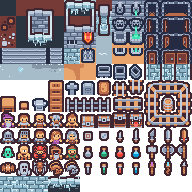
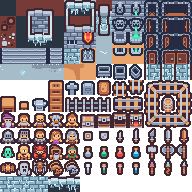
feat: special-biome feedback pass - cold torches, de-tiled floors, vault treasure, bloodier flesh
Owner feedback on PR #40, incorporated before merge:

Frost: torches burn COLD - the frost sheet now recolors the torch
sprite's flame (extra_frames support in the build pipeline: per-frame
palette overrides on top of the kit lut) and the client picks a
blue-white light pool per biome (TORCH_TINTS) + renders the torch from
the biome sheet. Sparkle density eased.

Floor tiling (frost/gold feedback): biome floor tiles carry baked
features at fixed in-tile positions, which lined up into a repeat grid.
The client now rotates/flips plain + paved biome floor tiles per
position (same deterministic orientDecor the speckle already used) -
8 orientations per tile, grid broken, zero art changes. Stone floors
untouched. Coin/sparkle densities also eased.

Goldvault treasure: a new pure-score 'treasure' loot category (no buff,
always consumed - applyLootEffect short-circuit + tests) scattered
across goldvault floors on entry (GOLDVAULT_TREASURE_COUNT=12;
rollTreasure: coins uncommon-value, fat sacks rare-value at 20%).
Rides the normal loot machinery: rarity scores at the live multiplier,
haul tallies into M13, rarity floor-glow for free. Client renders Tiny
Town coin #93 / sack #106 (ATTRIBUTION updated; also back-filled the
never-logged bomb #105 credit). Dormant until special-floor triggers
exist; live under DUNGEON_BIOME.

Flesh, bloodier: blotch pass eats the brick pattern (tone blobs
random-walked over the wall ramp only - outlines preserved), blood now
[…]

diff --git a/client/src/scenes/GameScene.ts b/client/src/scenes/GameScene.ts
@@ -13,6 +13,9 @@ const TILES_KEY = "tiles";
 // of a smashed key crate. Same 16x16 grid but 12 columns; key is frame #117.
 const TOWN_KEY = "town";
 const FRAME_KEY = 117;
+// Goldvault treasure pickups (special floors) — Tiny Town coin + coin sack.
+const FRAME_COIN = 93;
+const FRAME_SACK = 106;
 const TILE_SRC = 16; // source tile size in px (we scale up to the world TILE)
 const FRAME_FLOOR = 48; // plain stone floor (the common case)
 const FRAME_FLOOR_SPECKLE = 49; // subtle pebble/sand debris — same tan base as #48
@@ -122,6 +125,12 @@ const TORCH_SPRITE_DEPTH = 2; // the torch sits above the wall it's mounted on
 // tint subtly toward their player color (you read teammates by their glow); a downed
 // hero's distress beacon tints danger-red.
 const TORCH_TINT_COLOR = 0xffb060; // warm amber
+// Some biomes burn differently: frost torches throw a cold blue-white pool
+// (the frost sheet also recolors the torch sprite's flame — see extra_frames
+// in assets-src/biomes/build_biomes.py). Default is the warm amber above.
+const TORCH_TINTS: Record<string, number> = {
+  frost: 0xbfe4ff,
+};
 const TORCH_TINT_MAX = 0.55;
 // A hero's own light stays neutral (your view is true-color); teammates' light picks
 // up a *subtle* hint of their player color so you can tell whose bubble is whose.
@@ -435,6 +444,8 @@ export class GameScene extends Phaser.Scene {
   // Texture key map geometry draws from — the current floor's biome sheet
   // (M15); TILES_KEY (stone) until a "map" message says otherwise.
   private mapTilesKey: string = TILES_KEY;
+  // Flesh floors only: the slow-pulsing red wash that makes the floor breathe.
+  private fleshPulse?: Phaser.GameObjects.Rectangle;
   // The codex fold-in for the run that just ended (M14): prev snapshot (drives
   // the NEW badges) + which personal bests broke. Set once per run end — it
   // doubles as the "already recorded" guard — and cleared with runTallies.
@@ -914,6 +925,8 @@ export class GameScene extends Phaser.Scene {
    *  attack, the shield for defense, else the potion. */
   private lootSprite(l: LootView): { texture: string; frame: number } {
     if (l.category === "bomb") return { texture: TOWN_KEY, frame: FRAME_BOMB };
+    if (l.category === "treasure")
+      return { texture: TOWN_KEY, frame: l.variant === "sack" ? FRAME_SACK : FRAME_COIN };
     if (l.category === "attack")
       return { texture: TILES_KEY, frame: WEAPON_FRAMES[l.variant] ?? CATEGORY_FRAME.attack };
     return { texture: TILES_KEY, frame: CATEGORY_FRAME[l.category] ?? CATEGORY_FRAME.heal };
@@ -2004,6 +2017,27 @@ export class GameScene extends Phaser.Scene {
         .setDepth(BACKDROP_DEPTH);
     }
 
+    // Flesh floors breathe: a world-covering red wash whose alpha pulses on a
+    // slow sine, so the whole place seems faintly alive. One rectangle + one
+    // tween — no per-tile cost. Sits above geometry/decor, below loot/heroes.
+    this.fleshPulse?.destroy();
+    this.fleshPulse = undefined;
+    if (data.biome === "flesh") {
+      this.fleshPulse = this.add
+        .rectangle(0, 0, worldW, worldH, 0x9c1f2e)
+        .setOrigin(0)
+        .setDepth(DECOR_DEPTH + 1)
+        .setAlpha(0.02);
+      this.tweens.add({
+        targets: this.fleshPulse,
+        alpha: 0.08,
+        duration: 2400,
+        yoyo: true,
+        repeat: -1,
+        ease: "Sine.inOut",
+      });
+    }
+
     const grid = data.grid;
     const isWall = (gx: number, gy: number) =>
       gx < 0 || gy < 0 || gx >= data.width || gy >= data.height || grid[gy][gx] === 1;
@@ -2030,7 +2064,19 @@ export class GameScene extends Phaser.Scene {
           const cell = this.addCell(x * t, y * t, t, floorFrame);
           // The speckle tile is non-directional debris, so mirror/rotate it for
           // extra variety — turns one frame into 8 orientations with no seams.
-          if (floorFrame === FRAME_FLOOR_SPECKLE) this.orientDecor(cell, x, y, t);
+          if (floorFrame === FRAME_FLOOR_SPECKLE) {
+            this.orientDecor(cell, x, y, t);
+          } else if (
+            this.mapTilesKey !== TILES_KEY &&
+            (floorFrame === FRAME_FLOOR || floorFrame === FRAME_FLOOR_PAVED)
+          ) {
+            // Biome floors carry baked features (sparkles/coins/tufts) at fixed
+            // in-tile positions — rotate/flip per position like the speckle so
+            // the features don't line up into a repeat grid. Shadow tiles stay
+            // fixed (their gradient is directional); stone's plain tan gains
+            // nothing from rotating, so the base sheet keeps its exact look.
+            this.orientDecor(cell, x, y, t);
+          }
           this.trackDarkCell(cell, x, y, t);
           continue;
         }
@@ -2078,6 +2124,9 @@ export class GameScene extends Phaser.Scene {
     // sprites aren't tracked as darkCells, so they never dim. Rebuilt per floor.
     this.clearTorches();
     this.torchLights = [];
+    // Per-biome torch light: frost torches burn cold (blue-white pool + the
+    // frost sheet's icy flame sprite); everywhere else stays warm amber.
+    const torchTint = TORCH_TINTS[data.biome ?? ""] ?? TORCH_TINT_COLOR;
     for (const tr of data.torches ?? []) {
       const wx = tr.x * t + t / 2;
       const wy = tr.y * t + t / 2;
@@ -2088,7 +2137,7 @@ export class GameScene extends Phaser.Scene {
         y: ly,
         inner: TORCH_LIGHT_INNER,
         outer: TORCH_LIGHT_OUTER,
-        tint: TORCH_TINT_COLOR,
+        tint: torchTint,
         strength: TORCH_TINT_MAX,
       });
       this.buildTorch(wx, wy);
@@ -2359,7 +2408,8 @@ export class GameScene extends Phaser.Scene {
    * tracked as a darkCell, so it stays lit. Registered for per-floor teardown.
    */
   private buildTorch(wx: number, wy: number) {
-    const sprite = this.add.image(wx, wy, TILES_KEY, FRAME_TORCH).setDepth(TORCH_SPRITE_DEPTH);
+    // The biome sheet, not the base one: frost's clone recolors the flame icy.
+    const sprite = this.add.image(wx, wy, this.mapTilesKey, FRAME_TORCH).setDepth(TORCH_SPRITE_DEPTH);
     const flicker = this.tweens.add({
       targets: sprite,
       alpha: 0.78,

diff --git a/server/src/rooms/DungeonRoom.ts b/server/src/rooms/DungeonRoom.ts
@@ -40,6 +40,7 @@ import {
   BOMB_BLAST_DAMAGE,
   BOMB_KNOCKBACK,
   BOMB_STUN,
+  GOLDVAULT_TREASURE_COUNT,
 } from "./tuning";
 import {
   dist,
@@ -72,6 +73,7 @@ import {
   crateBombChance,
   chestPoints,
   rollRelic,
+  rollTreasure,
   type AggroCandidate,
   type Vec,
 } from "./logic";
@@ -421,6 +423,25 @@ export class DungeonRoom extends Room<{ state: DungeonState }> {
     // any drop. Hidden-until-lit falls out of the dark-render path on the client.
     for (const s of this.map.secretLoot) {
       this.dropLoot(s.x * TILE + TILE / 2, s.y * TILE + TILE / 2);
+    }
+
+    // Goldvault special floors are strewn with treasure: pure-score pickups
+    // (no buff) that ride the normal loot machinery — rarity scores them at
+    // the live multiplier on pickup, and they tally into M13's haul. Dormant
+    // until special-floor triggers exist (goldvault isn't in the depth bands).
+    if (this.map.biome === "goldvault") {
+      for (let n = 0; n < GOLDVAULT_TREASURE_COUNT; n++) {
+        const tile = this.floors[Math.floor(Math.random() * this.floors.length)];
+        if (!tile) break;
+        const t = rollTreasure();
+        const loot = new Loot();
+        loot.x = tile.x * TILE + TILE / 2;
+        loot.y = tile.y * TILE + TILE / 2;
+        loot.category = "treasure";
+        loot.rarity = t.rarity;
+        loot.variant = t.variant;
+        this.state.loot.set(`l${this.lootSeq++}`, loot);
+      }
     }
 
     // Seed the calm starting population so the floor isn't empty on arrival.

diff --git a/server/src/rooms/logic.ts b/server/src/rooms/logic.ts
@@ -16,6 +16,7 @@ import {
   CRATE_BOMB_CHANCE_BASE,
   CRATE_BOMB_CHANCE_DEPTH,
   CRATE_BOMB_CHANCE_MAX,
+  TREASURE_SACK_CHANCE,
   PASSIVE_REGEN,
   RARITIES,
   RARITY_TOTAL,
@@ -175,6 +176,11 @@ export interface LootDrop {
  * never shortens your remaining buff time.
  */
 export function applyLootEffect(target: LootTarget, buffs: LootBuffs, loot: LootDrop): boolean {
+  if (loot.category === "treasure") {
+    // Pure score: no buff, no stack — the pickup path scores it by rarity
+    // (like all loot) and that's the whole effect. Always consumed.
+    return true;
+  }
   if (loot.category === "attack") {
     const w = weaponByName(loot.variant ?? "");
     // The displayed weapon is whichever one owns the active (strongest) power, so
@@ -202,6 +208,20 @@ export function applyLootEffect(target: LootTarget, buffs: LootBuffs, loot: Loot
   if (target.healCharges >= MAX_HEAL_CHARGES) return false;
   target.healCharges++;
   return true;
+}
+
+/**
+ * Roll one goldvault treasure drop (special floors): mostly coins
+ * (uncommon-value score), sometimes the fat sack (rare-value). Pure for
+ * testing; rarity feeds the normal loot-score path on pickup.
+ */
+export function rollTreasure(
+  rng: Rng = Math.random,
+  sackChance: number = TREASURE_SACK_CHANCE
+): { variant: string; rarity: string } {
+  return rng() < sackChance
+    ? { variant: "sack", rarity: "rare" }
+    : { variant: "coin", rarity: "uncommon" };
 }
 
 /**

diff --git a/server/src/rooms/logic.test.ts b/server/src/rooms/logic.test.ts
@@ -9,6 +9,7 @@ import {
   rollMobKind,
   applyLootEffect,
   crateBombChance,
+  rollTreasure,
   applyKnockback,
   playerAttackDamage,
   mobDamageAfterDefense,
@@ -140,6 +141,22 @@ describe("rollMobKind (M5 depth-gated spawn mix)", () => {
       );
     expect(depthsHitCrab(2)).toBe(false);
     expect(depthsHitCrab(3)).toBe(true);
+  });
+});
+
+describe("treasure (goldvault special floors)", () => {
+  it("applyLootEffect treats treasure as pure score: consumed, nothing changes", () => {
+    const { t, b } = freshTarget();
+    const before = { ...t };
+    const kept = applyLootEffect(t, b, { rarity: "uncommon", category: "treasure", variant: "coin" });
+    expect(kept).toBe(true); // never left on the floor
+    expect(t).toEqual(before); // no heal charge, no buff, no weapon
+    expect(b).toEqual({ attackMult: 1, defenseReduce: 0, knockback: 0 });
+  });
+
+  it("rollTreasure deals coins mostly, the fat sack at the tail", () => {
+    expect(rollTreasure(() => 0.99)).toEqual({ variant: "coin", rarity: "uncommon" });
+    expect(rollTreasure(() => 0.0)).toEqual({ variant: "sack", rarity: "rare" });
   });
 });
 

diff --git a/server/src/rooms/tuning.ts b/server/src/rooms/tuning.ts
@@ -211,6 +211,15 @@ export const BOMB_KNOCKBACK = 48; // px a mob in the blast is shoved outward fro
 export const BOMB_STUN = 2.5; // s every mob on the map is frozen on detonation
 export const BOMB_FRAME = 105; // Tiny Town sheet index the client renders (bomb tile)
 
+// --- Special floors ------------------------------------------------------
+// Goldvault floors are strewn with pure-score treasure pickups ("treasure"
+// loot category: no buff, just points at the floor's live multiplier —
+// coins are uncommon-value, sacks rare-value; see rollTreasure). Dormant
+// until special-floor triggers exist (the biome isn't in the depth bands),
+// but fully live under the DUNGEON_BIOME override.
+export const GOLDVAULT_TREASURE_COUNT = 12; // drops scattered per goldvault floor
+export const TREASURE_SACK_CHANCE = 0.2; // share of drops that are the fat sack
+
 // --- Vault chest (M4) --------------------------------------------------
 // One vault per floor: visible from arrival, sealed behind a timed door that
 // opens once the floor's heat is already spicy. Cracking it open under fire pays

diff --git a/ATTRIBUTION.md b/ATTRIBUTION.md
@@ -75,12 +75,15 @@ the local player is identified by their yellow name label rather than a drawn ri
 - Author / creator: Kenney (www.kenney.nl)
 - License: CC0 1.0 (public domain — free for any use, no attribution required)
 - License URL: https://creativecommons.org/publicdomain/zero/1.0/
-- Used for: the vault key. We ship the packed spritesheet
-  `Tilemap/tilemap_packed.png` (16×16 tiles, 12 columns, no spacing) as
-  `client/public/assets/tiny-town/tilemap_packed.png`. Frame #117 (the key) is
-  rendered in-world as the key sprite that pops out of a smashed key crate
-  (`GameScene.playKeyPop`), and is also extracted at 3× scale to
+- Used for: the vault key, the bomb, and goldvault treasure. We ship the packed
+  spritesheet `Tilemap/tilemap_packed.png` (16×16 tiles, 12 columns, no
+  spacing) as `client/public/assets/tiny-town/tilemap_packed.png`. Frame #117
+  (the key) is rendered in-world as the key sprite that pops out of a smashed
+  key crate (`GameScene.playKeyPop`), and is also extracted at 3× scale to
   `client/public/assets/tiny-town/key.png` for the DOM key-found toast icon.
+  Frame #105 (the bomb) is the M10 collectible-bomb sprite (drop, placed bomb,
+  and the mobile bomb button). Frames #93 (gold coin) and #106 (coin sack) are
+  the goldvault special-floor treasure pickups (added 2026-07-19).
 - Modifications: frame #119 extracted and upscaled 3× (nearest-neighbor) for
   the toast image; raw source extracted under the gitignored `assets-src/`.
 - Date added: 2026-06-22

diff --git a/docs/roadmap.md b/docs/roadmap.md
@@ -120,6 +120,12 @@ new synced state.
 
 **Level Design**
 - **Massive levels** - Levels that feel so punishingly large that it's a challenge to get to the exit before the heat is full.  Maybe lots of corridors.  This probably will need some dials to make it fun and not just tedious.
+- **Biome floorplans** — vary the *generator* by biome, not just the art
+  (owner: "that's what will really sell it"). Cheap first step: per-biome
+  weights over the existing PRESETS (flesh favors warren's organic tunnels,
+  goldvault favors hall's big chambers, frost mixes wide rooms). Deeper cut:
+  biome-specific carve quirks (irregular flesh walls, vault-like symmetric
+  rooms). Next-PR candidate — pairs naturally with special-floor triggers.
 - **Special floors — trigger design.** Three special biome kits are SHIPPED
   as art + valid biome names (`frost`, `goldvault`, `flesh` — sheets, client
   textures, `DUNGEON_BIOME` override all work) but deliberately **not** in the